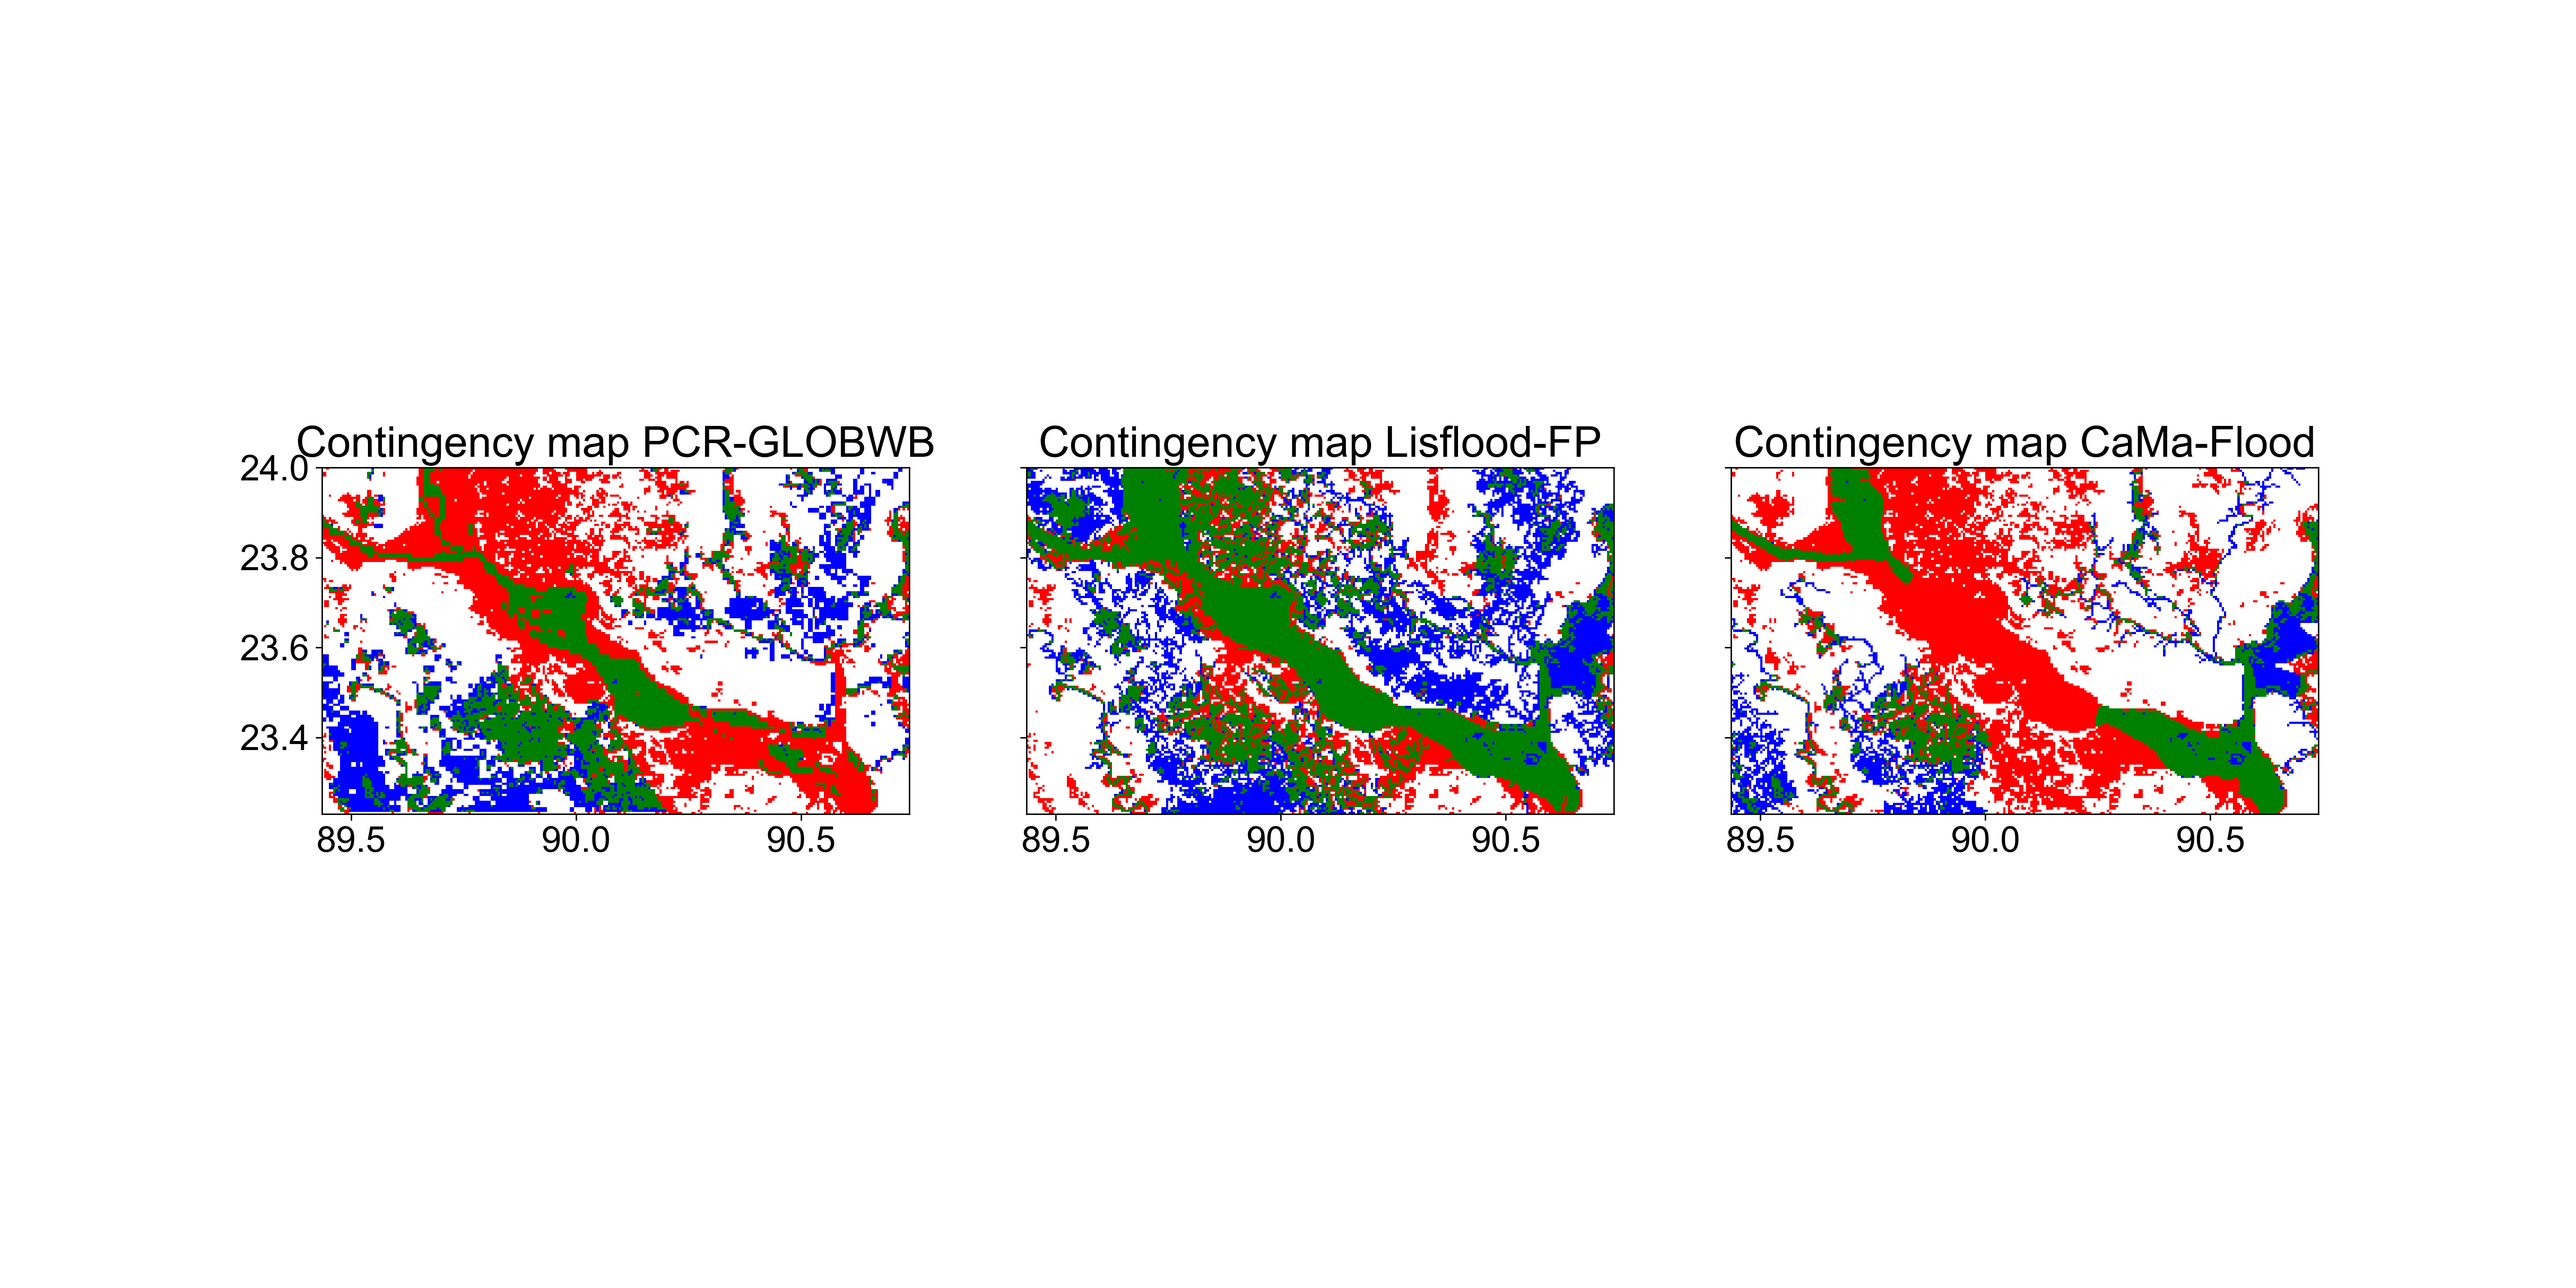
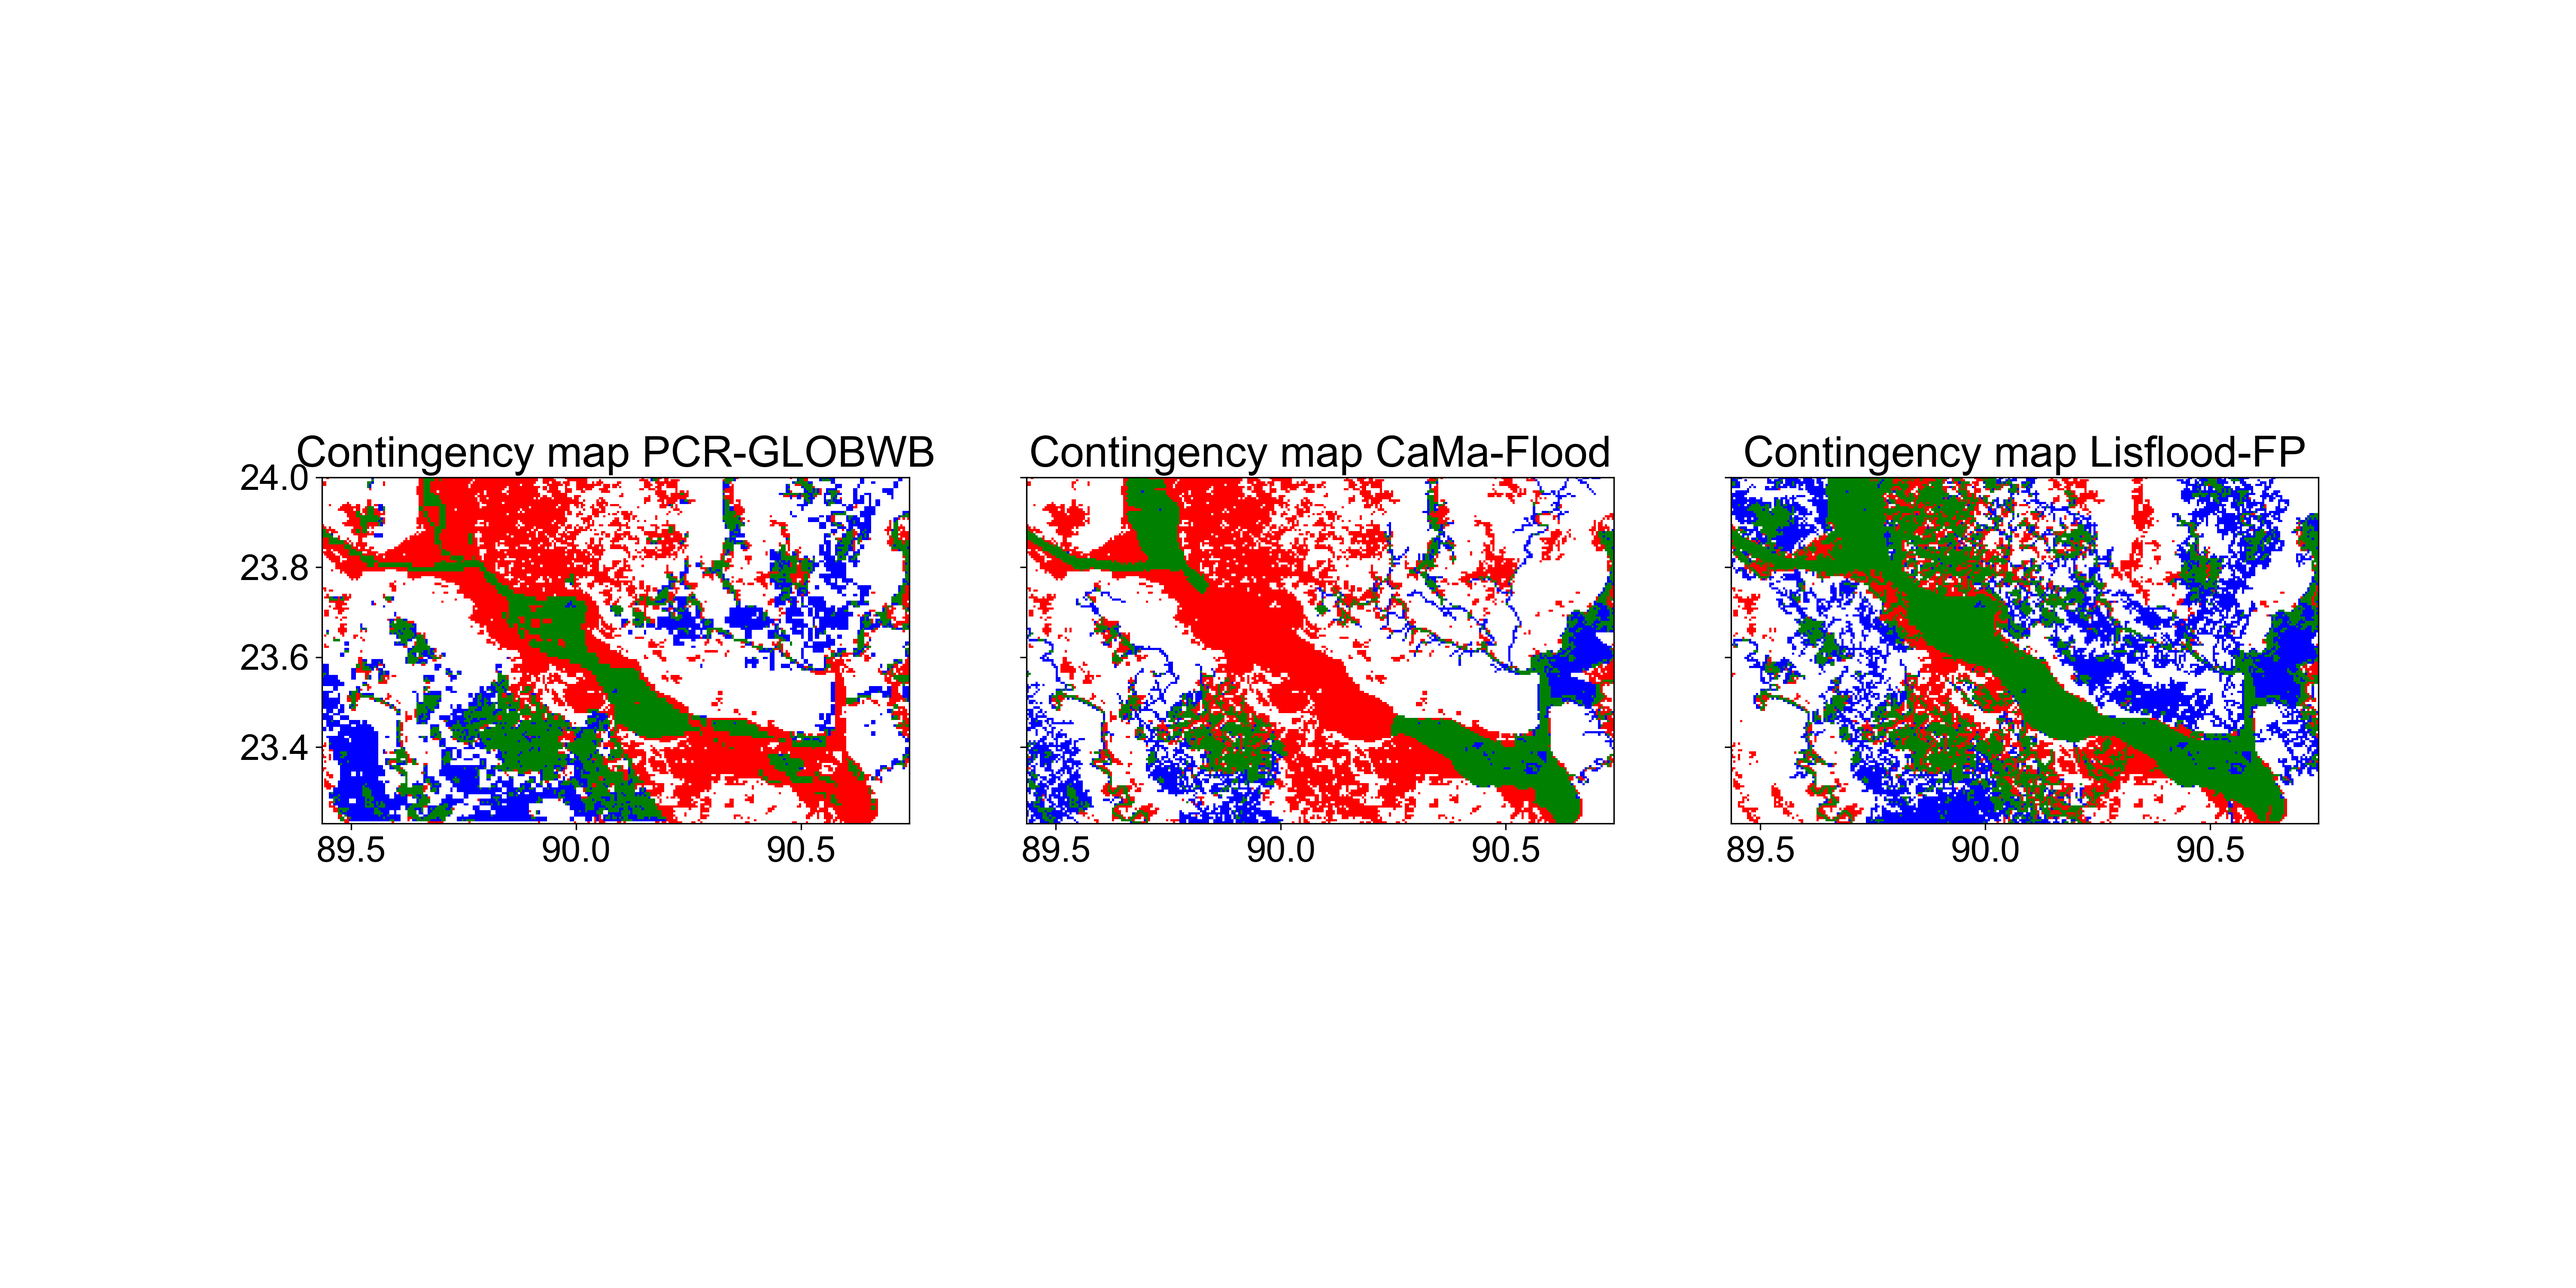
updated code

Changed region(s): [[0.0935, 0.31, 0.6233, 0.682], [0.6545, 0.31, 0.9038, 0.682]]

diff --git a/EGU2020.html b/EGU2020.html
@@ -13210,6 +13210,21 @@ div#notebook {
 </div>
 
 </div>
+<div class="cell border-box-sizing code_cell rendered">
+<div class="input">
+<div class="prompt input_prompt">In&nbsp;[&nbsp;]:</div>
+<div class="inner_cell">
+    <div class="input_area">
+<div class=" highlight hl-ipython3"><pre><span></span><span class="k">if</span> <span class="n">os</span><span class="o">.</span><span class="n">path</span><span class="o">.</span><span class="n">exists</span><span class="p">(</span><span class="s1">&#39;out&#39;</span><span class="p">):</span>
+    <span class="k">pass</span>
+<span class="k">else</span><span class="p">:</span> <span class="n">os</span><span class="o">.</span><span class="n">mkdir</span><span class="p">(</span><span class="s1">&#39;out&#39;</span><span class="p">)</span>
+</pre></div>
+
+    </div>
+</div>
+</div>
+
+</div>
 <div class="cell border-box-sizing text_cell rendered"><div class="prompt input_prompt">
 </div><div class="inner_cell">
 <div class="text_cell_render border-box-sizing rendered_html">
@@ -13438,8 +13453,9 @@ div#notebook {
 <div class="inner_cell">
     <div class="input_area">
 <div class=" highlight hl-ipython3"><pre><span></span><span class="n">flood_maps</span> <span class="o">=</span> <span class="p">{</span><span class="s1">&#39;PCR-GLOBWB&#39;</span><span class="p">:</span><span class="n">PCR_d</span><span class="p">,</span> 
+              <span class="s1">&#39;CaMa-Flood&#39;</span><span class="p">:</span><span class="n">CMF_d</span><span class="p">,</span>
               <span class="s1">&#39;Lisflood-FP&#39;</span><span class="p">:</span><span class="n">LFP_d</span><span class="p">,</span> 
-              <span class="s1">&#39;CaMa-Flood&#39;</span><span class="p">:</span><span class="n">CMF_d</span><span class="p">}</span>
+              <span class="p">}</span>
 </pre></div>
 
     </div>
@@ -13534,10 +13550,10 @@ div#notebook {
 <span class="n">axes</span><span class="p">[</span><span class="mi">0</span><span class="p">,</span><span class="mi">0</span><span class="p">]</span><span class="o">.</span><span class="n">set_title</span><span class="p">(</span><span class="s1">&#39;Observed extent&#39;</span><span class="p">)</span>
 <span class="n">show</span><span class="p">(</span><span class="n">PCR_d</span><span class="p">,</span> <span class="n">ax</span><span class="o">=</span><span class="n">axes</span><span class="p">[</span><span class="mi">0</span><span class="p">,</span><span class="mi">1</span><span class="p">],</span> <span class="n">cmap</span><span class="o">=</span><span class="s1">&#39;Blues&#39;</span><span class="p">)</span>
 <span class="n">axes</span><span class="p">[</span><span class="mi">0</span><span class="p">,</span><span class="mi">1</span><span class="p">]</span><span class="o">.</span><span class="n">set_title</span><span class="p">(</span><span class="s1">&#39;PCR-GLOBWB&#39;</span><span class="p">)</span>
-<span class="n">show</span><span class="p">(</span><span class="n">LFP_d</span><span class="p">,</span> <span class="n">ax</span><span class="o">=</span><span class="n">axes</span><span class="p">[</span><span class="mi">1</span><span class="p">,</span><span class="mi">0</span><span class="p">],</span> <span class="n">cmap</span><span class="o">=</span><span class="s1">&#39;Blues&#39;</span><span class="p">)</span>
-<span class="n">axes</span><span class="p">[</span><span class="mi">1</span><span class="p">,</span><span class="mi">0</span><span class="p">]</span><span class="o">.</span><span class="n">set_title</span><span class="p">(</span><span class="s1">&#39;Lisflood-FP&#39;</span><span class="p">)</span>
-<span class="n">show</span><span class="p">(</span><span class="n">CMF_d</span><span class="p">,</span> <span class="n">ax</span><span class="o">=</span><span class="n">axes</span><span class="p">[</span><span class="mi">1</span><span class="p">,</span><span class="mi">1</span><span class="p">],</span> <span class="n">cmap</span><span class="o">=</span><span class="s1">&#39;Blues&#39;</span><span class="p">)</span>
-<span class="n">axes</span><span class="p">[</span><span class="mi">1</span><span class="p">,</span><span class="mi">1</span><span class="p">]</span><span class="o">.</span><span class="n">set_title</span><span class="p">(</span><span class="s1">&#39;CaMa-Flood&#39;</span><span class="p">)</span>
+<span class="n">show</span><span class="p">(</span><span class="n">CMF_d</span><span class="p">,</span> <span class="n">ax</span><span class="o">=</span><span class="n">axes</span><span class="p">[</span><span class="mi">1</span><span class="p">,</span><span class="mi">0</span><span class="p">],</span> <span class="n">cmap</span><span class="o">=</span><span class="s1">&#39;Blues&#39;</span><span class="p">)</span>
+<span class="n">axes</span><span class="p">[</span><span class="mi">1</span><span class="p">,</span><span class="mi">0</span><span class="p">]</span><span class="o">.</span><span class="n">set_title</span><span class="p">(</span><span class="s1">&#39;CaMa-Flood&#39;</span><span class="p">)</span>
+<span class="n">axes</span><span class="p">[</span><span class="mi">1</span><span class="p">,</span><span class="mi">1</span><span class="p">]</span><span class="o">.</span><span class="n">set_title</span><span class="p">(</span><span class="s1">&#39;Lisflood-FP&#39;</span><span class="p">)</span>
+<span class="n">show</span><span class="p">(</span><span class="n">LFP_d</span><span class="p">,</span> <span class="n">ax</span><span class="o">=</span><span class="n">axes</span><span class="p">[</span><span class="mi">1</span><span class="p">,</span><span class="mi">1</span><span class="p">],</span> <span class="n">cmap</span><span class="o">=</span><span class="s1">&#39;Blues&#39;</span><span class="p">)</span>
 <span class="n">plt</span><span class="o">.</span><span class="n">tight_layout</span><span class="p">()</span>
 
 <span class="n">plt</span><span class="o">.</span><span class="n">savefig</span><span class="p">(</span><span class="s1">&#39;out/flood_extents.png&#39;</span><span class="p">,</span> <span class="n">dpi</span><span class="o">=</span><span class="mi">300</span><span class="p">)</span>

diff --git a/EGU2020.py b/EGU2020.py
@@ -93,6 +93,14 @@ rcParams['font.sans-serif'] = ['Arial']
 matplotlib.rc('font', **font)
 
 
+# In[ ]:
+
+
+if os.path.exists('out'):
+    pass
+else: os.mkdir('out')
+
+
 # <a id="functions"></a>
 # # Functions
 # 
@@ -236,8 +244,9 @@ CMF_d = rio.open(CMF_fo)
 
 
 flood_maps = {'PCR-GLOBWB':PCR_d, 
+              'CaMa-Flood':CMF_d,
               'Lisflood-FP':LFP_d, 
-              'CaMa-Flood':CMF_d}
+              }
 
 
 # ## Observed extent
@@ -285,10 +294,10 @@ show(OBS_d, ax=axes[0,0], cmap='Oranges')
 axes[0,0].set_title('Observed extent')
 show(PCR_d, ax=axes[0,1], cmap='Blues')
 axes[0,1].set_title('PCR-GLOBWB')
-show(LFP_d, ax=axes[1,0], cmap='Blues')
-axes[1,0].set_title('Lisflood-FP')
-show(CMF_d, ax=axes[1,1], cmap='Blues')
-axes[1,1].set_title('CaMa-Flood')
+show(CMF_d, ax=axes[1,0], cmap='Blues')
+axes[1,0].set_title('CaMa-Flood')
+axes[1,1].set_title('Lisflood-FP')
+show(LFP_d, ax=axes[1,1], cmap='Blues')
 plt.tight_layout()
 
 plt.savefig('out/flood_extents.png', dpi=300)
